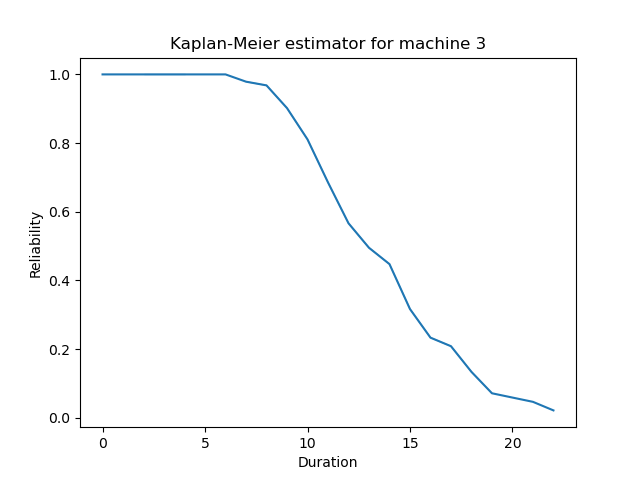
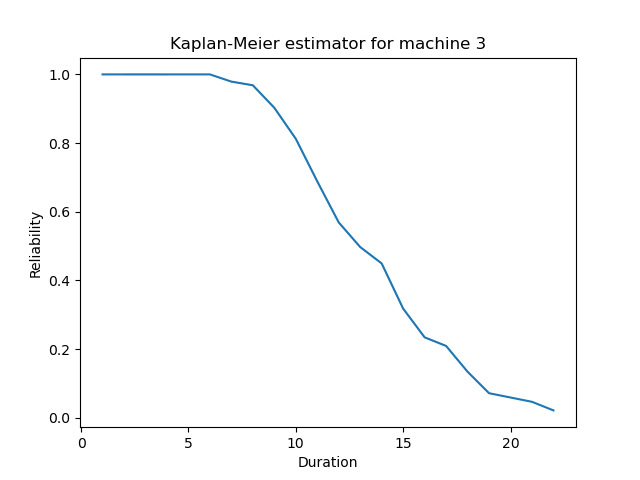
fixed duplicated durations being 0

diff --git a/s4917340-Tool.py b/s4917340-Tool.py
@@ -15,8 +15,13 @@ plot_path = os.path.join(root_path, 'plot')
 
 def data_preparation(machine_data : pd.DataFrame):
     machine_data['Censored'] = machine_data['Event'].map({'failure': 'No', 'PM':'Yes'})
-    machine_data['Duration'] = machine_data['Time'].diff(periods=1).fillna(machine_data['Time'].iloc[0])
+    machine_data['Duration'] = machine_data['Time'].diff().fillna(machine_data['Time'].iloc[0])
+
+    # foreach 0 (due to duplicated durations) replace with nan to fill the blank cells with the duration above it
+    machine_data['Duration'] = machine_data['Duration'].replace(0, np.nan).ffill()
+    
     machine_data = machine_data.sort_values(by='Duration', ascending=True)
+    
     # source: https://stackoverflow.com/questions/67845362/sort-pandas-df-subset-of-rows-within-a-group-by-specific-column 
     # source: https://sparkbyexamples.com/pandas/pandas-groupby-sort-within-groups/
     machine_data = machine_data.groupby('Duration', group_keys=True).apply(lambda x: x.sort_values(by=['Event'], ascending=False))
@@ -45,14 +50,13 @@ def create_kaplanmeier_data(prepared_data : pd.DataFrame):
     prepared_data = update_probabilities(prepared_data)
 
     # 3. Merge duplicated, failure (censored == No) durations 
-    # group the dataframe with duplicates by duration and aggrated sum on proability column
     grouped = prepared_data.groupby('Duration').agg({'Probability': 'sum'}).reset_index()
     prepared_data['summed_prob'] = prepared_data['Duration'].map(grouped.set_index('Duration')['Probability'])
     mask = (prepared_data.duplicated('Duration', keep=False)) & (prepared_data['Event'] == 'failure') #mark all duplicates
     prepared_data.loc[mask, 'Probability'] = prepared_data.loc[mask, 'summed_prob']
     mask2 = (prepared_data.duplicated('Duration')) & (prepared_data['Event'] == 'failure') # mark all dups besides the first one
     prepared_data.loc[mask2, 'Probability'] = 0
-    prepared_data = prepared_data.drop('summed_prob', axis=1)
+    prepared_data.drop(columns='summed_prob', axis=1, inplace=True)
 
     # 4. Calculate the reliability function for each duration 
     reliability = 1
@@ -117,7 +121,7 @@ def fit_weibull_distribution(prepared_data : pd.DataFrame):
     print(df_weibull)
     # get the optimal Lambda and Kappa based on the max Loglikelihood sum
     max_loglikelihood_sum = df_weibull['Loglikelihood_sum'].max() 
-    best_l_k = df_weibull[df_weibull['Loglikelihood_sum'] == max_loglikelihood_sum][['Lambda', 'Kappa']]
+    best_l_k = df_weibull[(df_weibull['Loglikelihood_sum'] == max_loglikelihood_sum)]
     return best_l_k['Lambda'].values[0], best_l_k['Kappa'].values[0]
 
 def create_weibull_curve_data(prepared_data : pd.DataFrame, lamb_val, kap_val):
@@ -132,7 +136,7 @@ def create_weibull_curve_data(prepared_data : pd.DataFrame, lamb_val, kap_val):
 def visualization(KM_data : pd.DataFrame, weibull_data : pd.DataFrame, machine_name):
     fig, ax = plt.subplots()
     ax.set_title(f'Visualization of reliability functions of machine {machine_name}')
-    ax.step(KM_data['Duration'], KM_data['Reliability'], where="post", label='Kaplan-Meier')
+    ax.step(KM_data['Duration'], KM_data['Reliability'], label='Kaplan-Meier')
     ax.plot(weibull_data['t'], weibull_data['R_t'], label='Weibull')
     ax.set_xlabel('Time')
     ax.set_ylabel('Reliability')
@@ -143,8 +147,6 @@ def visualization(KM_data : pd.DataFrame, weibull_data : pd.DataFrame, machine_n
 # Create a plot of the cost rates
 def plot_cost_rates(maintenance_data : pd.DataFrame, machine_name):
     fig, ax = plt.subplots()
-    x_min, x_max = 1, round(maintenance_data['t'].max())
-
     ax.set_title(f'Maintenance age impact on cost for machine {machine_name}')
     ax.plot(maintenance_data['t'], maintenance_data['cost_rate'])
     ax.set_xlabel('Time')
@@ -188,7 +190,6 @@ def run_analysis():
     MTBF_KM = meantimebetweenfailures_KM(KM_data)
 
     # Weibull fitting
-    print(prepared_data)
     lamb_val, kap_val = fit_weibull_distribution(prepared_data)
     print(f'\nBest Lambda & Kappa values for machine {machine_name} are {lamb_val} and {kap_val}')
 
